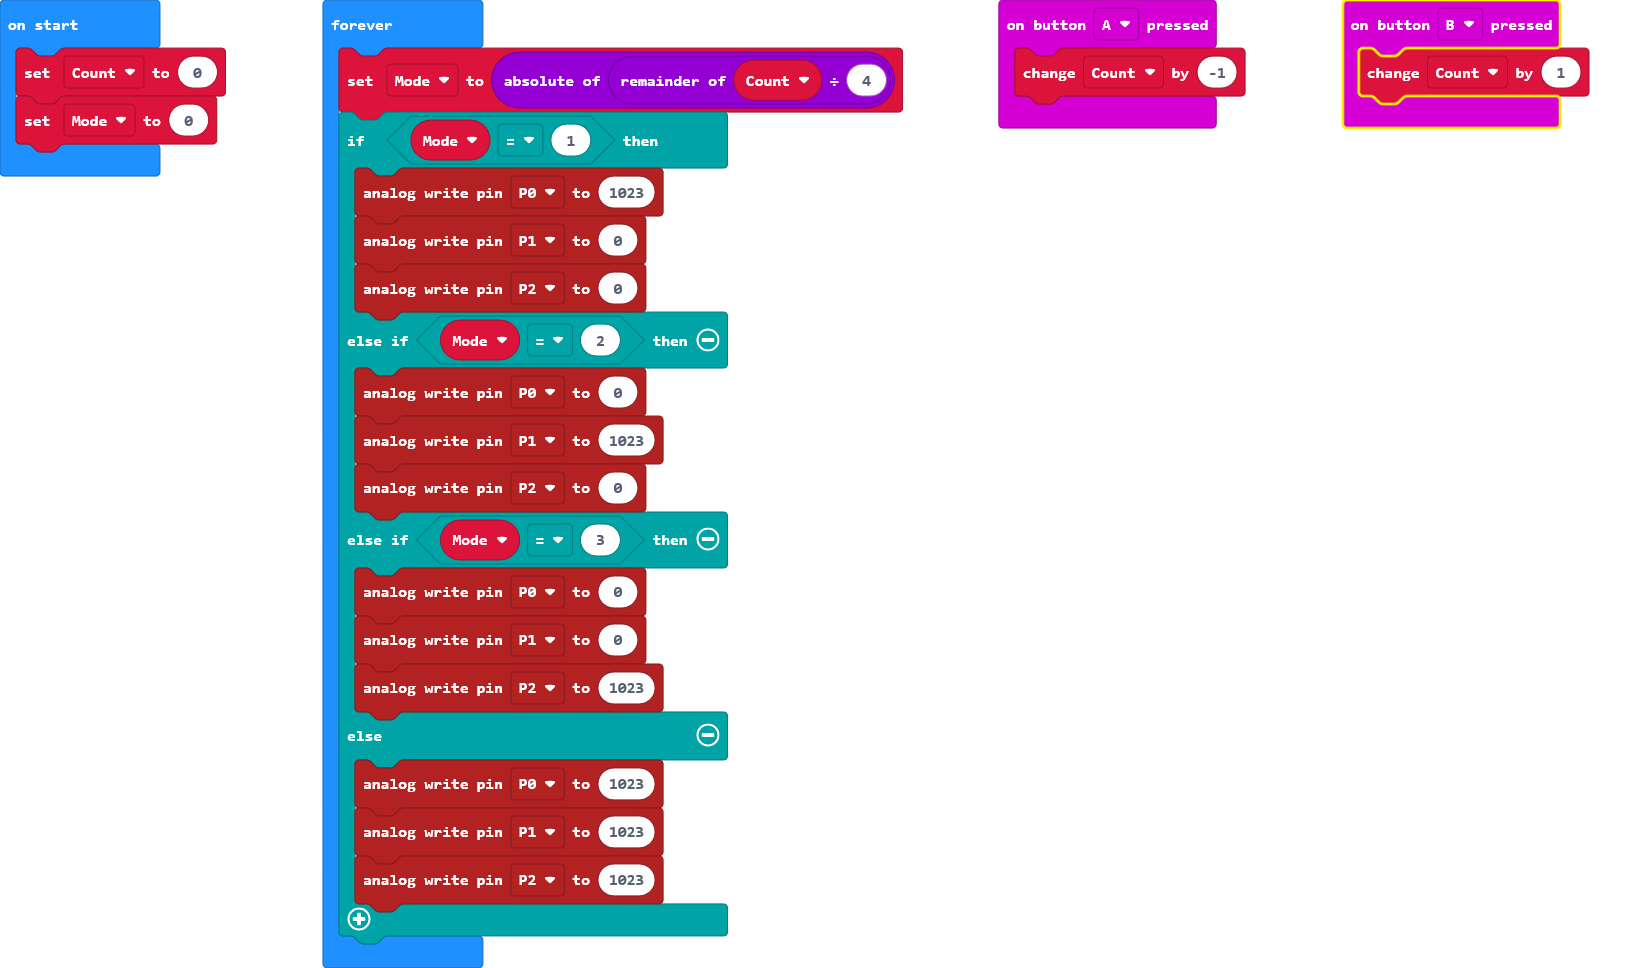
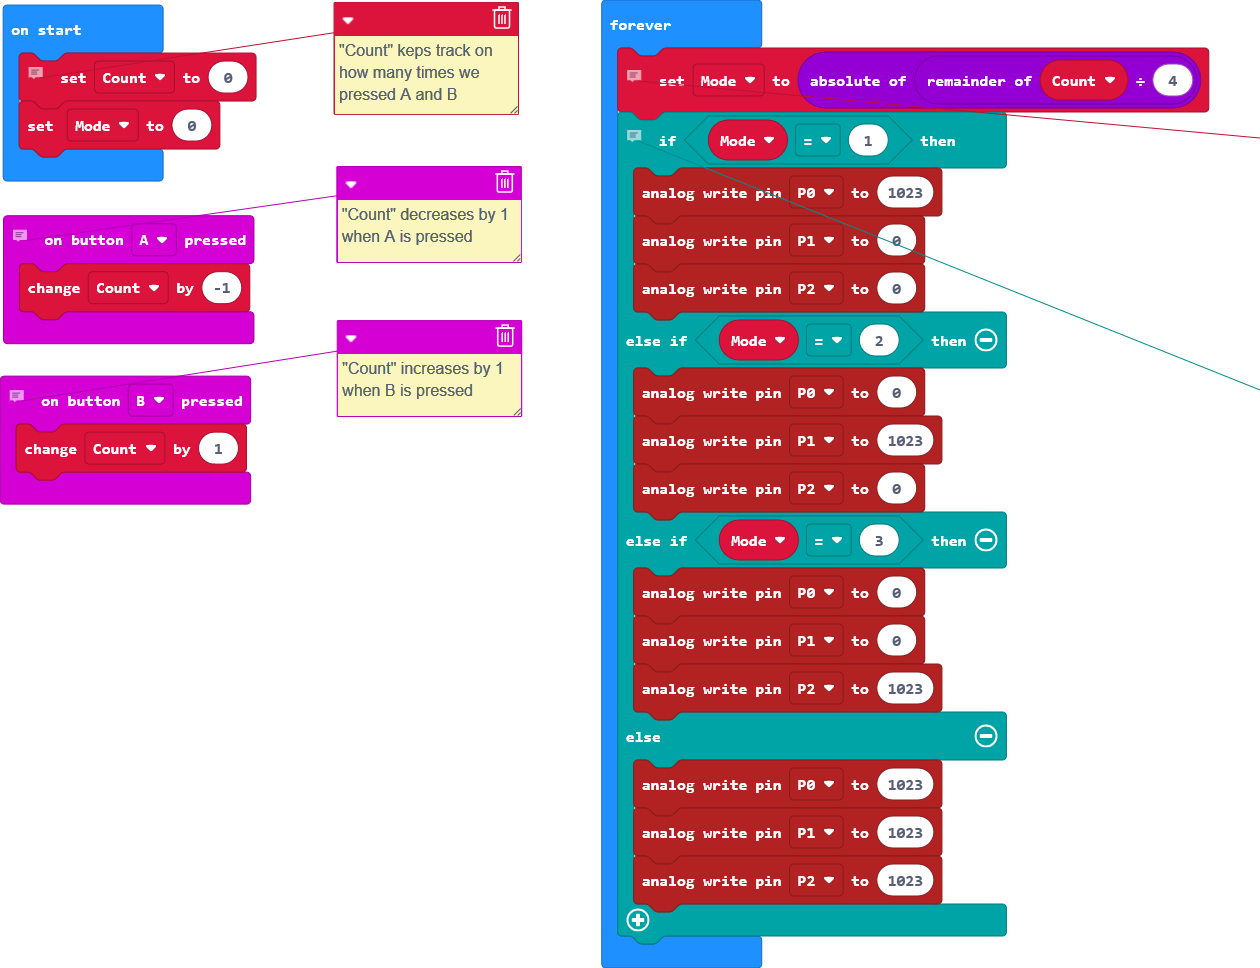
Update main.blocks, main.ts

diff --git a/main.ts b/main.ts
@@ -1,13 +1,29 @@
+// "Count" decreases by 1 when A is pressed
 input.onButtonPressed(Button.A, function () {
     Count += -1
 })
+// "Count" increases by 1 when B is pressed
 input.onButtonPressed(Button.B, function () {
     Count += 1
 })
+// "Count" keps track on how many times we pressed A and B
 let Count = 0
 let Mode = 0
 basic.forever(function () {
+    // "Mode" indicates how he LED is ging to behave.   It´s the remainder of "count"/4, as an absolute number so it´s alwats positive.
+    // Count 0, Mode 0
+    // Count 1, Mode 1
+    // ...
+    // Count 4, Mode 0
+    // Count 5, Mode 1
+    // ....
+    // Count 15, Mode 3
+    // 
     Mode = Math.abs(Count % 4)
+    // Mode 1, Red light
+    // Mode 2, Green light
+    // Mode 3, Blue light
+    // Every other mode (only 0), white light
     if (Mode == 1) {
         pins.analogWritePin(AnalogPin.P0, 1023)
         pins.analogWritePin(AnalogPin.P1, 0)
